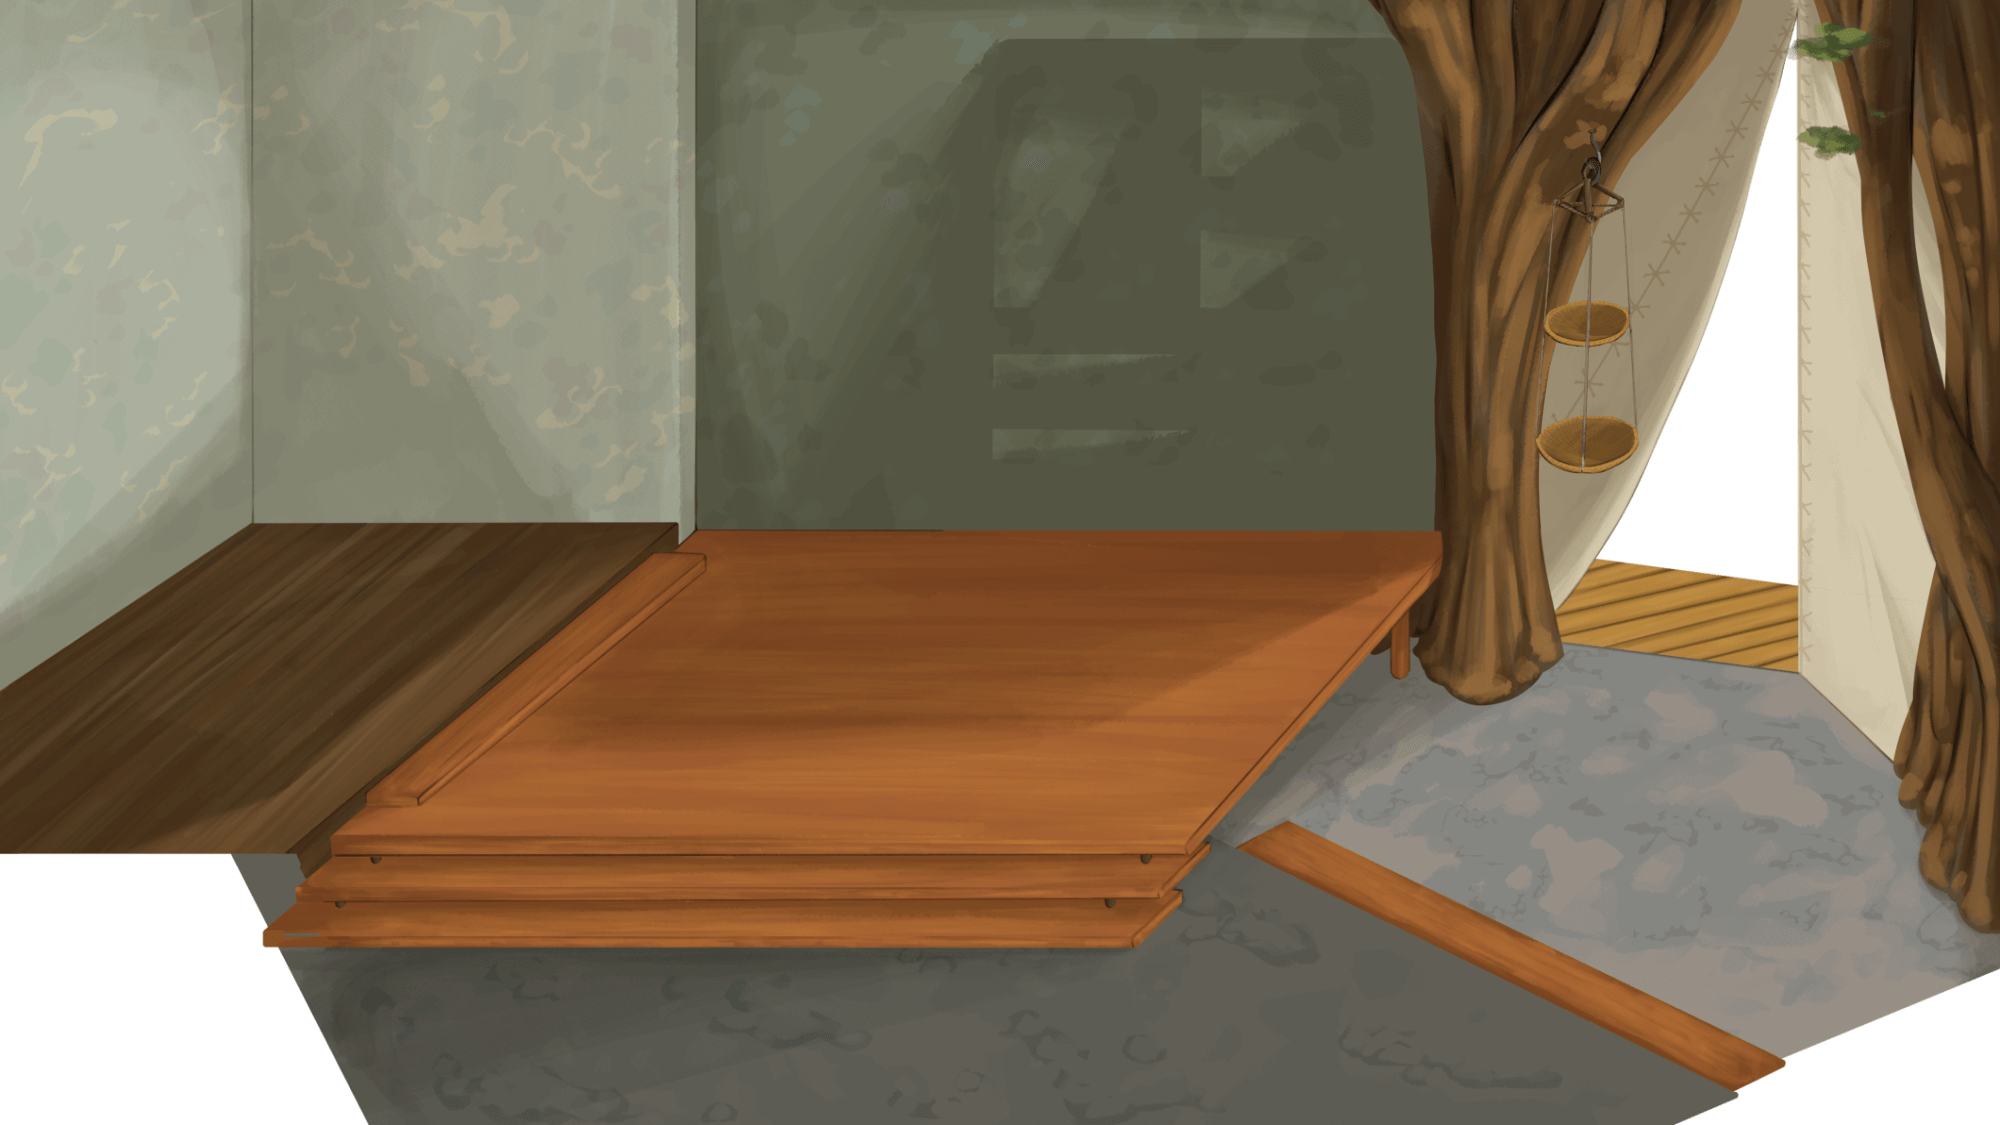
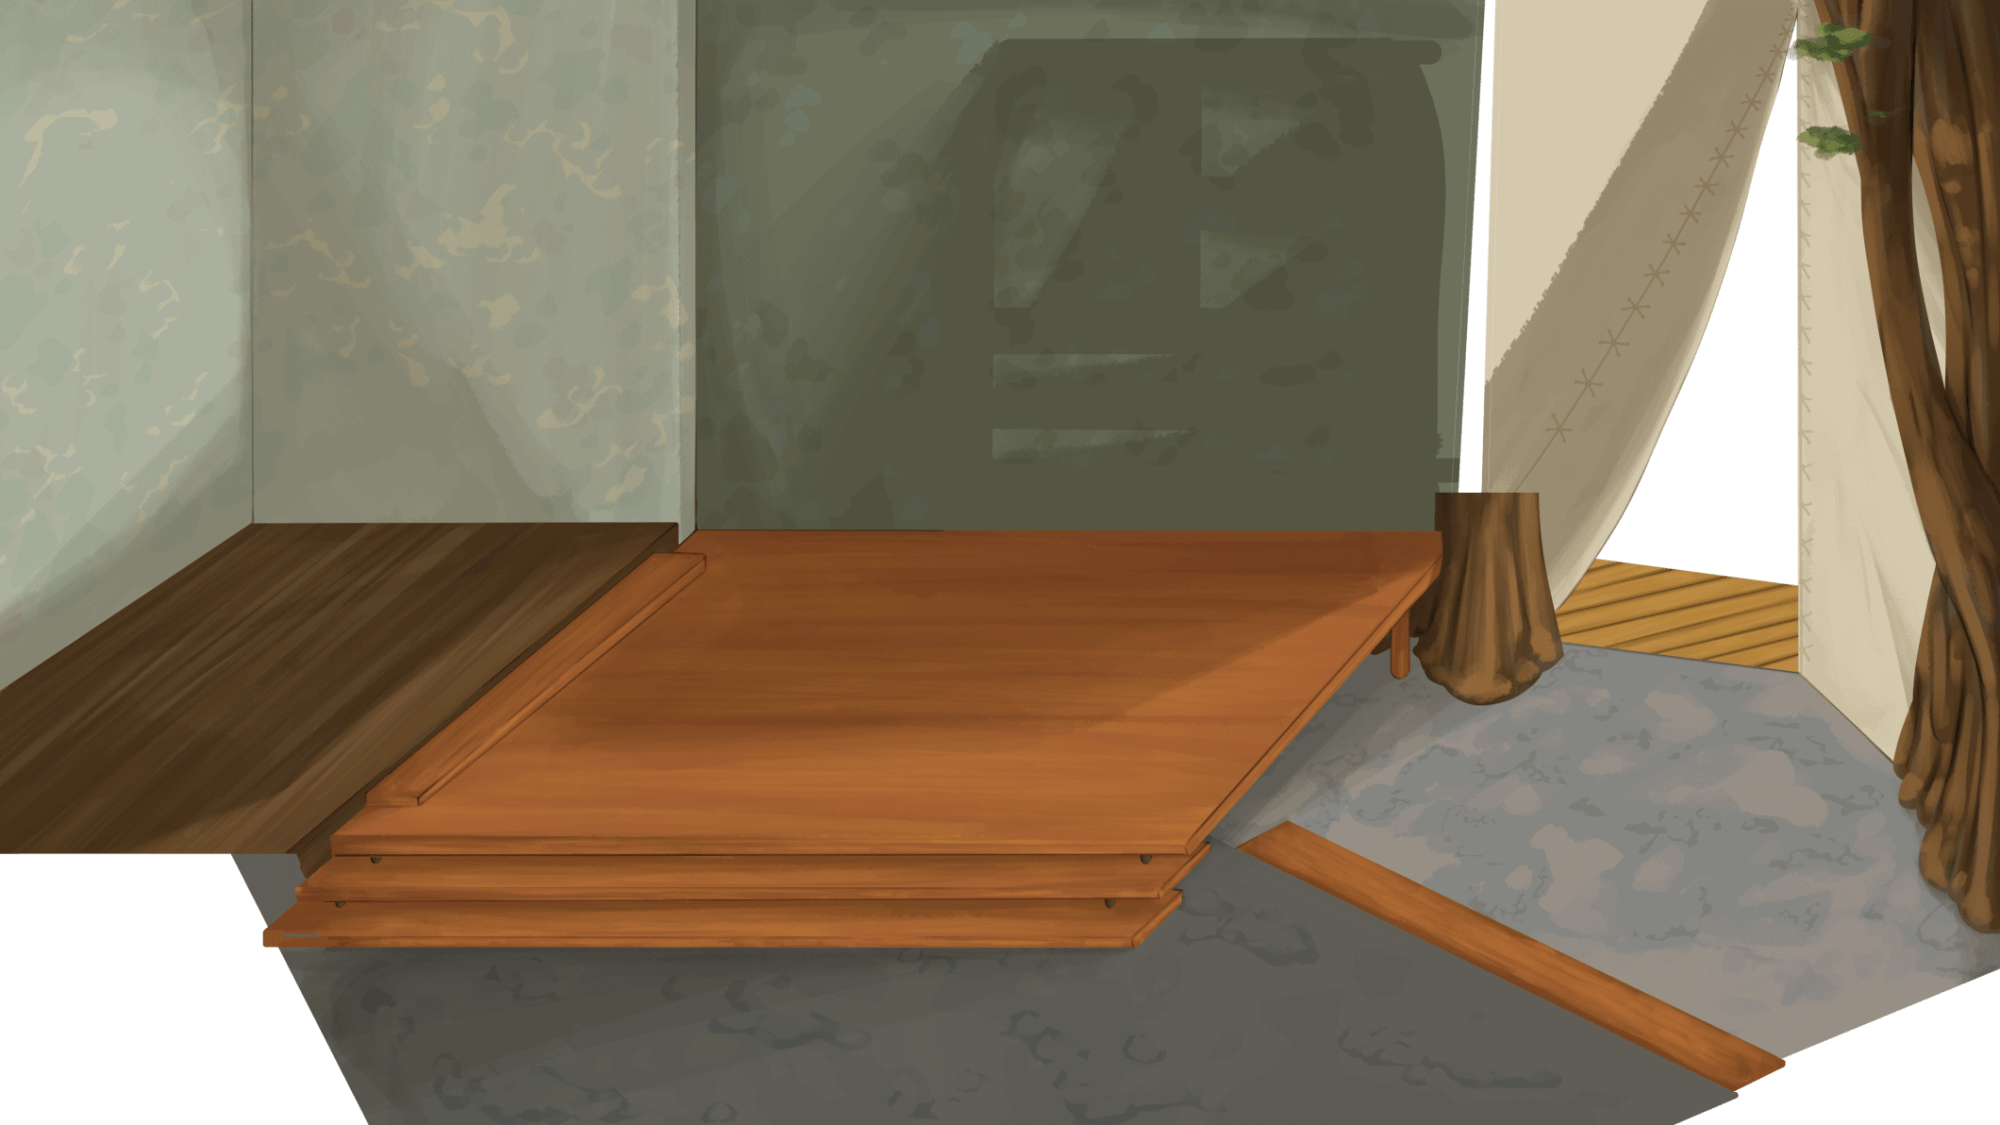
Added new completed items

Changed region(s): [[0.682, 0.0, 0.868, 0.4356]]

diff --git a/src/data/elements.js b/src/data/elements.js
@@ -8,6 +8,7 @@ module.exports = {
     oy: 0.5,
     scale: 0.97,
   },
+
   room: {
     x: 0.5,
     y: 0.5,
@@ -21,9 +22,15 @@ module.exports = {
     x: -0.015,
     y: 0.3,
     z: 3,
-    str: 0.7,
+    str: 0.9,
     ox: 0,
     oy: 0,
+  },
+  animol: {
+    x: 0.14,
+    y: 0.53,
+    z: 4,
+    str: 0.8,
   },
   counter: {
     x: 0.08,
@@ -33,20 +40,80 @@ module.exports = {
     ox: 0,
     oy: 0,
   },
+  lantern: {
+    x: 0.105,
+    y: 0.72,
+    z: 5,
+    str: 0.4,
+    ox: 0,
+    oy: 0,
+    scale: 1.2,
+  },
   shelf: {
-    x: 0.48,
+    x: 0.484,
     y: 0.01,
     z: 5,
-    str: 0.85,
+    str: 0.9,
     ox: 0,
     oy: 0,
     scale: 0.9,
   },
+  trunk: {
+    x: 0.686,
+    y: -0.085,
+    z: 6,
+    str: 1,
+    ox: 0,
+    oy: 0,
+    scale: 0.97,
+  },
+  banner: {
+    x: 0.887,
+    y: 0.135,
+    z: 7,
+    str: 0.85,
+    ox: 0.5,
+    oy: 0.5,
+    scale: 0.85,
+  },
+
+  mumei: {
+    x: 0.495,
+    y: 0.7,
+    z: 91,
+    str: 0,
+    scale: 0.87,
+  },
+  sana: {
+    x: 0.34,
+    y: 0.82,
+    z: 92,
+    str: -0.15,
+    scale: 0.87,
+  },
+  bae: {
+    x: 0.095,
+    y: -0.02,
+    z: 93,
+    ox: 0,
+    oy: 0,
+    str: 0.4,
+    scale: 0.8,
+  },
+
+  table: {
+    x: 0.5,
+    y: 0.96,
+    z: 100,
+    str: -0.3,
+    scale: 0.97,
+  },
+
   front1: {
     x: 0.1,
     y: 0.67,
     z: 101,
-    str: 0.2,
+    str: -0.4,
     ox: 0.5,
     oy: 0.5,
   },
@@ -54,16 +121,17 @@ module.exports = {
     x: 0.78,
     y: 0.65,
     z: 103,
-    str: 0.2,
+    str: 0.4,
     ox: 0.5,
     oy: 0.5,
   },
   front3: {
-    x: 0.1,
+    x: -0.005,
     y: 0.2,
     z: 102,
-    str: 0.5,
-    ox: 0.5,
+    str: -0.5,
+    ox: 0,
     oy: 0.5,
+    scale: 0.6,
   },
 };

diff --git a/src/game/scenes/index.js b/src/game/scenes/index.js
@@ -10,6 +10,15 @@ import front3 from '../assets/images/front3.png';
 import outside from '../assets/images/outside.png';
 import room from '../assets/images/room.png';
 import shelf from '../assets/images/shelf.png';
+import animol from '../assets/images/animol.png';
+import banner from '../assets/images/banner.png';
+import lantern from '../assets/images/lantern.png';
+import table from '../assets/images/table.png';
+import trunk from '../assets/images/trunk.png';
+
+import bae from '../assets/images/bae.png';
+import mumei from '../assets/images/mumei.png';
+import sana from '../assets/images/sana.png';
 
 import Cursor3 from '../assets/cursor/cursor3.png';
 
@@ -44,6 +53,14 @@ class IndexScene extends Phaser.Scene {
     this.load.image('outside', outside);
     this.load.image('room', room);
     this.load.image('shelf', shelf);
+    this.load.image('animol', animol);
+    this.load.image('banner', banner);
+    this.load.image('lantern', lantern);
+    this.load.image('table', table);
+    this.load.image('trunk', trunk);
+    this.load.image('bae', bae);
+    this.load.image('mumei', mumei);
+    this.load.image('sana', sana);
 
     this.load.atlas('confetti', confettiPng, confettiJson);
   }
